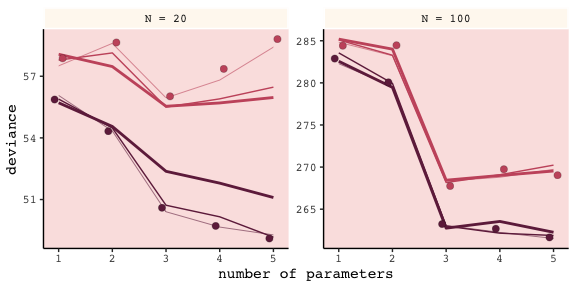
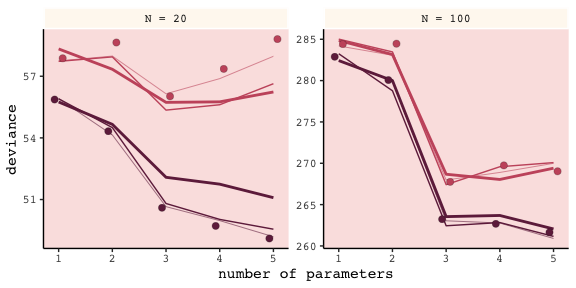
06 github_document version 1.1.2—minor code adjustments

diff --git a/06.md b/06.md
@@ -1,7 +1,7 @@
 Ch. 6 Overfitting, Regularization, and Information Criteria
 ================
 A Solomon Kurz
-2018-08-26
+2018-08-31
 
 Overfitting, Regularization, and Information Criteria
 =====================================================
@@ -97,7 +97,7 @@ fit_lm <- function(model, formula){
 }
 
 fits <-
-  tibble(model = str_c("b6.", 1:6),
+  tibble(model   = str_c("b6.", 1:6),
          formula = c("brain ~ mass", 
                      "brain ~ mass + I(mass^2)", 
                      "brain ~ mass + I(mass^2) + I(mass^3)", 
@@ -127,7 +127,7 @@ Our `fits` object is a [nested tibble](https://tidyr.tidyverse.org/reference/nes
 ``` r
 fits <-
   fits %>% 
-  mutate(r2 = glance %>% map_dbl("r.squared")) %>% 
+  mutate(r2      = glance %>% map_dbl("r.squared")) %>% 
   mutate(r2_text = round(r2, digits = 2) %>% as.character() %>% str_replace(., "0.", "."))
 
 fits %>% 
@@ -139,7 +139,7 @@ fits %>%
   theme_classic() +
   theme(axis.text.y  = element_text(hjust = 0),
         axis.ticks.y = element_blank(),
-        text = element_text(family = "Courier"),
+        text         = element_text(family = "Courier"),
         panel.background = element_rect(fill = alpha(carto_pal(7, "BurgYl")[3], 1/4)))
 ```
 
@@ -623,7 +623,7 @@ t <-
          p_2  = .7,
          q_1  = seq(from = .01, to = .99, by = .01)) %>% 
   mutate(q_2  = 1 - q_1) %>%
-  mutate(d_kl =  (p_1 * log(p_1 / q_1)) + (p_2 * log(p_2 / q_2)))
+  mutate(d_kl = (p_1 * log(p_1 / q_1)) + (p_2 * log(p_2 / q_2)))
 
 head(t)
 ```
@@ -666,7 +666,7 @@ tibble(direction = c("Earth to Mars", "Mars to Earth"),
        q_1    = c(.7, .01)) %>% 
   mutate(p_2  = 1 - p_1,
          q_2  = 1 - q_1) %>%
-  mutate(d_kl =  (p_1 * log(p_1 / q_1)) + (p_2 * log(p_2 / q_2)))
+  mutate(d_kl = (p_1 * log(p_1 / q_1)) + (p_2 * log(p_2 / q_2)))
 ```
 
     ## # A tibble: 2 x 6
@@ -912,8 +912,8 @@ dev_tibble %>%
   labs(x = "number of parameters",
        y = "deviance") +
   theme_classic() +
-  theme(text = element_text(family = "Courier"),
-        legend.position = "none",
+  theme(text             = element_text(family = "Courier"),
+        legend.position  = "none",
         strip.background = element_rect(fill = alpha(carto_pal(7, "BurgYl")[1], 1/4), color = "white"),
         panel.background = element_rect(fill = alpha(carto_pal(7, "BurgYl")[3], 1/4))) +
   facet_wrap(~N, scale = "free_y")
@@ -959,7 +959,7 @@ But to prepare for Figure 6.9, let's simulate. This time we'll wrap the basic si
 ``` r
 library(rethinking)
 
-n_sim   <- 1e3  # I've reduced this number by one order of magnitude to reduce computation time
+n_sim <- 1e3  # I've reduced this number by one order of magnitude to reduce computation time
 
 make_sim <- function(N, b_sigma){
   sapply(kseq, function(k) {
@@ -973,71 +973,11 @@ make_sim <- function(N, b_sigma){
 }
 
 s <-
-  tibble(N = rep(c(20, 100), each = 3),
-       b_sigma = rep(c(1, .5, .2), times = 2)) %>% 
-  mutate(sim = map2(N, b_sigma, make_sim)) %>% 
+  tibble(N       = rep(c(20, 100), each = 3),
+         b_sigma = rep(c(1, .5, .2), times = 2)) %>% 
+  mutate(sim     = map2(N, b_sigma, make_sim)) %>% 
   unnest()
 ```
-
-    ## [1] 1
-    ## 
-    ## [1] 2
-    ## 
-    ## [1] 3
-    ## 
-    ## [1] 4
-    ## 
-    ## [1] 5
-    ## 
-    ## [1] 1
-    ## 
-    ## [1] 2
-    ## 
-    ## [1] 3
-    ## 
-    ## [1] 4
-    ## 
-    ## [1] 5
-    ## 
-    ## [1] 1
-    ## 
-    ## [1] 2
-    ## 
-    ## [1] 3
-    ## 
-    ## [1] 4
-    ## 
-    ## [1] 5
-    ## 
-    ## [1] 1
-    ## 
-    ## [1] 2
-    ## 
-    ## [1] 3
-    ## 
-    ## [1] 4
-    ## 
-    ## [1] 5
-    ## 
-    ## [1] 1
-    ## 
-    ## [1] 2
-    ## 
-    ## [1] 3
-    ## 
-    ## [1] 4
-    ## 
-    ## [1] 5
-    ## 
-    ## [1] 1
-    ## 
-    ## [1] 2
-    ## 
-    ## [1] 3
-    ## 
-    ## [1] 4
-    ## 
-    ## [1] 5
 
 We'll follow the same principles for wrangling these data as we did those from the previous simulation, `dev_tibble`. And after wrangling, we'll feed the data directly into the code for our version of Figure 6.9.
 
@@ -1065,8 +1005,8 @@ s %>%
   labs(x = "number of parameters",
        y = "deviance") +
   theme_classic() +
-  theme(text = element_text(family = "Courier"),
-        legend.position = "none",
+  theme(text             = element_text(family = "Courier"),
+        legend.position  = "none",
         strip.background = element_rect(fill = alpha(carto_pal(7, "BurgYl")[1], 1/4), color = "white"),
         panel.background = element_rect(fill = alpha(carto_pal(7, "BurgYl")[3], 1/4))) +
   facet_wrap(~N, scale = "free_y")
@@ -1136,7 +1076,7 @@ dev_tibble  %>%
   labs(x = "number of parameters",
        y = "deviance") +
   theme_classic() +
-  theme(text = element_text(family = "Courier"),
+  theme(text             = element_text(family = "Courier"),
         strip.background = element_rect(fill = alpha(carto_pal(7, "BurgYl")[1], 1/4), color = "white"),
         panel.background = element_rect(fill = alpha(carto_pal(7, "BurgYl")[3], 1/4))) +
   facet_wrap(~N, scale = "free_y")
@@ -1368,10 +1308,10 @@ s %>%
        x = "number of parameters",
        y = "deviance") +
   theme_classic() +
-  theme(text = element_text(family = "Courier"),
+  theme(text             = element_text(family = "Courier"),
         strip.background = element_rect(fill = alpha(carto_pal(7, "BurgYl")[1], 1/4), color = "white"),
         panel.background = element_rect(fill = alpha(carto_pal(7, "BurgYl")[3], 1/4)),
-        legend.position = "none") +
+        legend.position  = "none") +
   facet_wrap(~ic, ncol = 1)
 ```
 
@@ -2010,8 +1950,8 @@ ggplot(data = my_coef_tab,
   scale_x_discrete(NULL, labels = my_coef_tab$axis) +
   ggtitle("My other coeftab() plot") +
   coord_flip() +
-  theme(text = element_text(family = "Courier"),
-        panel.grid = element_blank(),
+  theme(text         = element_text(family = "Courier"),
+        panel.grid   = element_blank(),
         axis.ticks.y = element_blank(),
         axis.text.y  = element_text(hjust = 0),
         panel.background = element_rect(fill = alpha(carto_pal(7, "BurgYl")[3], 1/4)))
@@ -2250,12 +2190,13 @@ sessionInfo()
     ## [69] hms_0.4.2                 knitr_1.20               
     ## [71] pillar_1.2.3              igraph_1.2.1             
     ## [73] markdown_0.8              shinystan_2.5.0          
-    ## [75] reshape2_1.4.3            stats4_3.5.1             
-    ## [77] rstantools_1.5.0          glue_1.2.0               
-    ## [79] evaluate_0.10.1           modelr_0.1.2             
-    ## [81] httpuv_1.4.4.2            cellranger_1.1.0         
-    ## [83] gtable_0.2.0              assertthat_0.2.0         
-    ## [85] mime_0.5                  xtable_1.8-2             
-    ## [87] coda_0.19-1               later_0.7.3              
-    ## [89] rsconnect_0.8.8           viridisLite_0.3.0        
-    ## [91] shinythemes_1.1.1         bridgesampling_0.4-0
+    ## [75] codetools_0.2-15          reshape2_1.4.3           
+    ## [77] stats4_3.5.1              rstantools_1.5.0         
+    ## [79] glue_1.2.0                evaluate_0.10.1          
+    ## [81] modelr_0.1.2              httpuv_1.4.4.2           
+    ## [83] cellranger_1.1.0          gtable_0.2.0             
+    ## [85] assertthat_0.2.0          mime_0.5                 
+    ## [87] xtable_1.8-2              coda_0.19-1              
+    ## [89] later_0.7.3               rsconnect_0.8.8          
+    ## [91] viridisLite_0.3.0         shinythemes_1.1.1        
+    ## [93] bridgesampling_0.4-0
